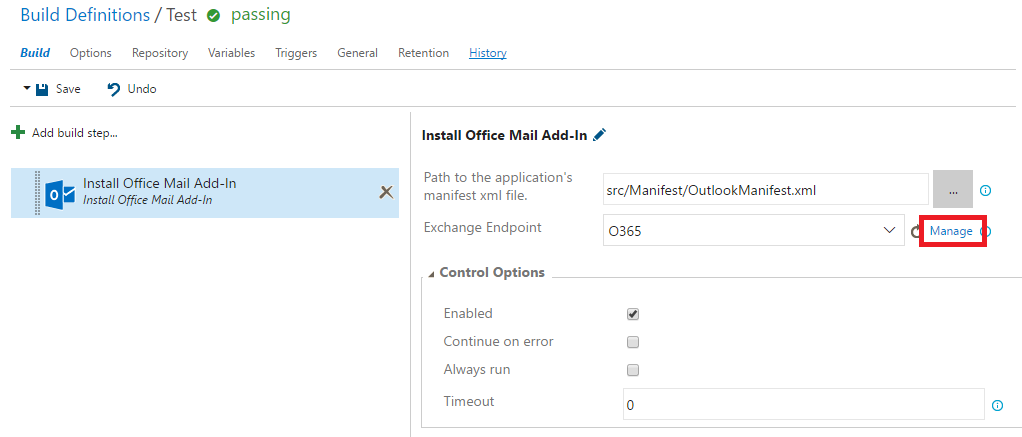
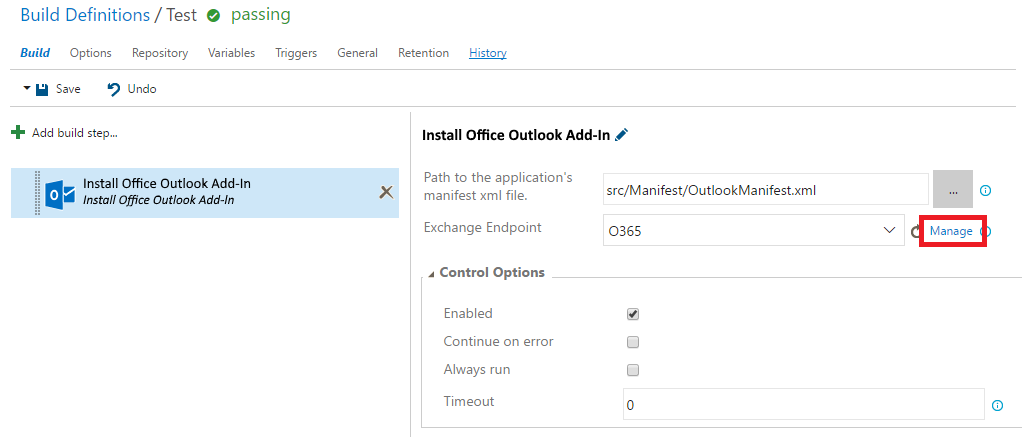
Add'l screenshots

Changed region(s): [[0.0607, 0.3867, 0.2427, 0.476], [0.3943, 0.2975, 0.6067, 0.3272]]

diff --git a/README.md b/README.md
@@ -6,29 +6,31 @@ The extension installs the follow tasks:
 
 ![Extension Tasks](https://raw.githubusercontent.com/knom/vsts-office-tasks/master/docs/addtask.png "Extension Tasks")
 
-* ### Install Office Mail Add-In
-    Install an Office JS Mail Add-In
+* ### Install Office Outlook Add-In
+    Install an Office.JS Outlook Add-In
     
     ![Screenshot](https://raw.githubusercontent.com/knom/vsts-office-tasks/master/docs/install.png "Screenshot")
     
     #### Parameters: ####
     * Path to application xml: 
-        * The path of the office manifest xml file. 
+        * The path of the Outlook manifest XML file. 
         * It can contain variables such as $(Build.ArtifactStagingDirectory)\manifest.xml
     * Exchange Endpoint:
-        * The URL and credential to Office 365 or Exchange. 
+        * The URL and credential to Office 365 or Exchange server. 
         * Add a new endpoint by clicking on *Manage*.
+            ![Screenshot](https://raw.githubusercontent.com/knom/vsts-office-tasks/master/docs/connection1.png "Screenshot")
+            ![Screenshot](https://raw.githubusercontent.com/knom/vsts-office-tasks/master/docs/connection2.png "Screenshot")
         * Use https://mail.office365.com/ as the URL for Office 365.
 
-* ### Uninstall Office Mail Add-In
-    Remove an Office JS Mail Add-In from the server.
+* ### Uninstall Office Outlook Add-In
+    Remove an Office.JS Outlook Add-In from the server.
     
     #### Parameters: ####
     * Path to application xml: 
-        * The path of the office manifest xml file. 
+        * The path of the Outlook manifest XML file. 
         * It can contain variables such as $(Build.ArtifactStagingDirectory)\manifest.xml
     * Exchange Endpoint:
-        * The URL and credential to Office 365 or Exchange. 
+        * The URL and credential to Office 365 or Exchange server. 
         * Add a new endpoint by clicking on *Manage*.
         * Use https://mail.office365.com/ as the URL for Office 365.
 
